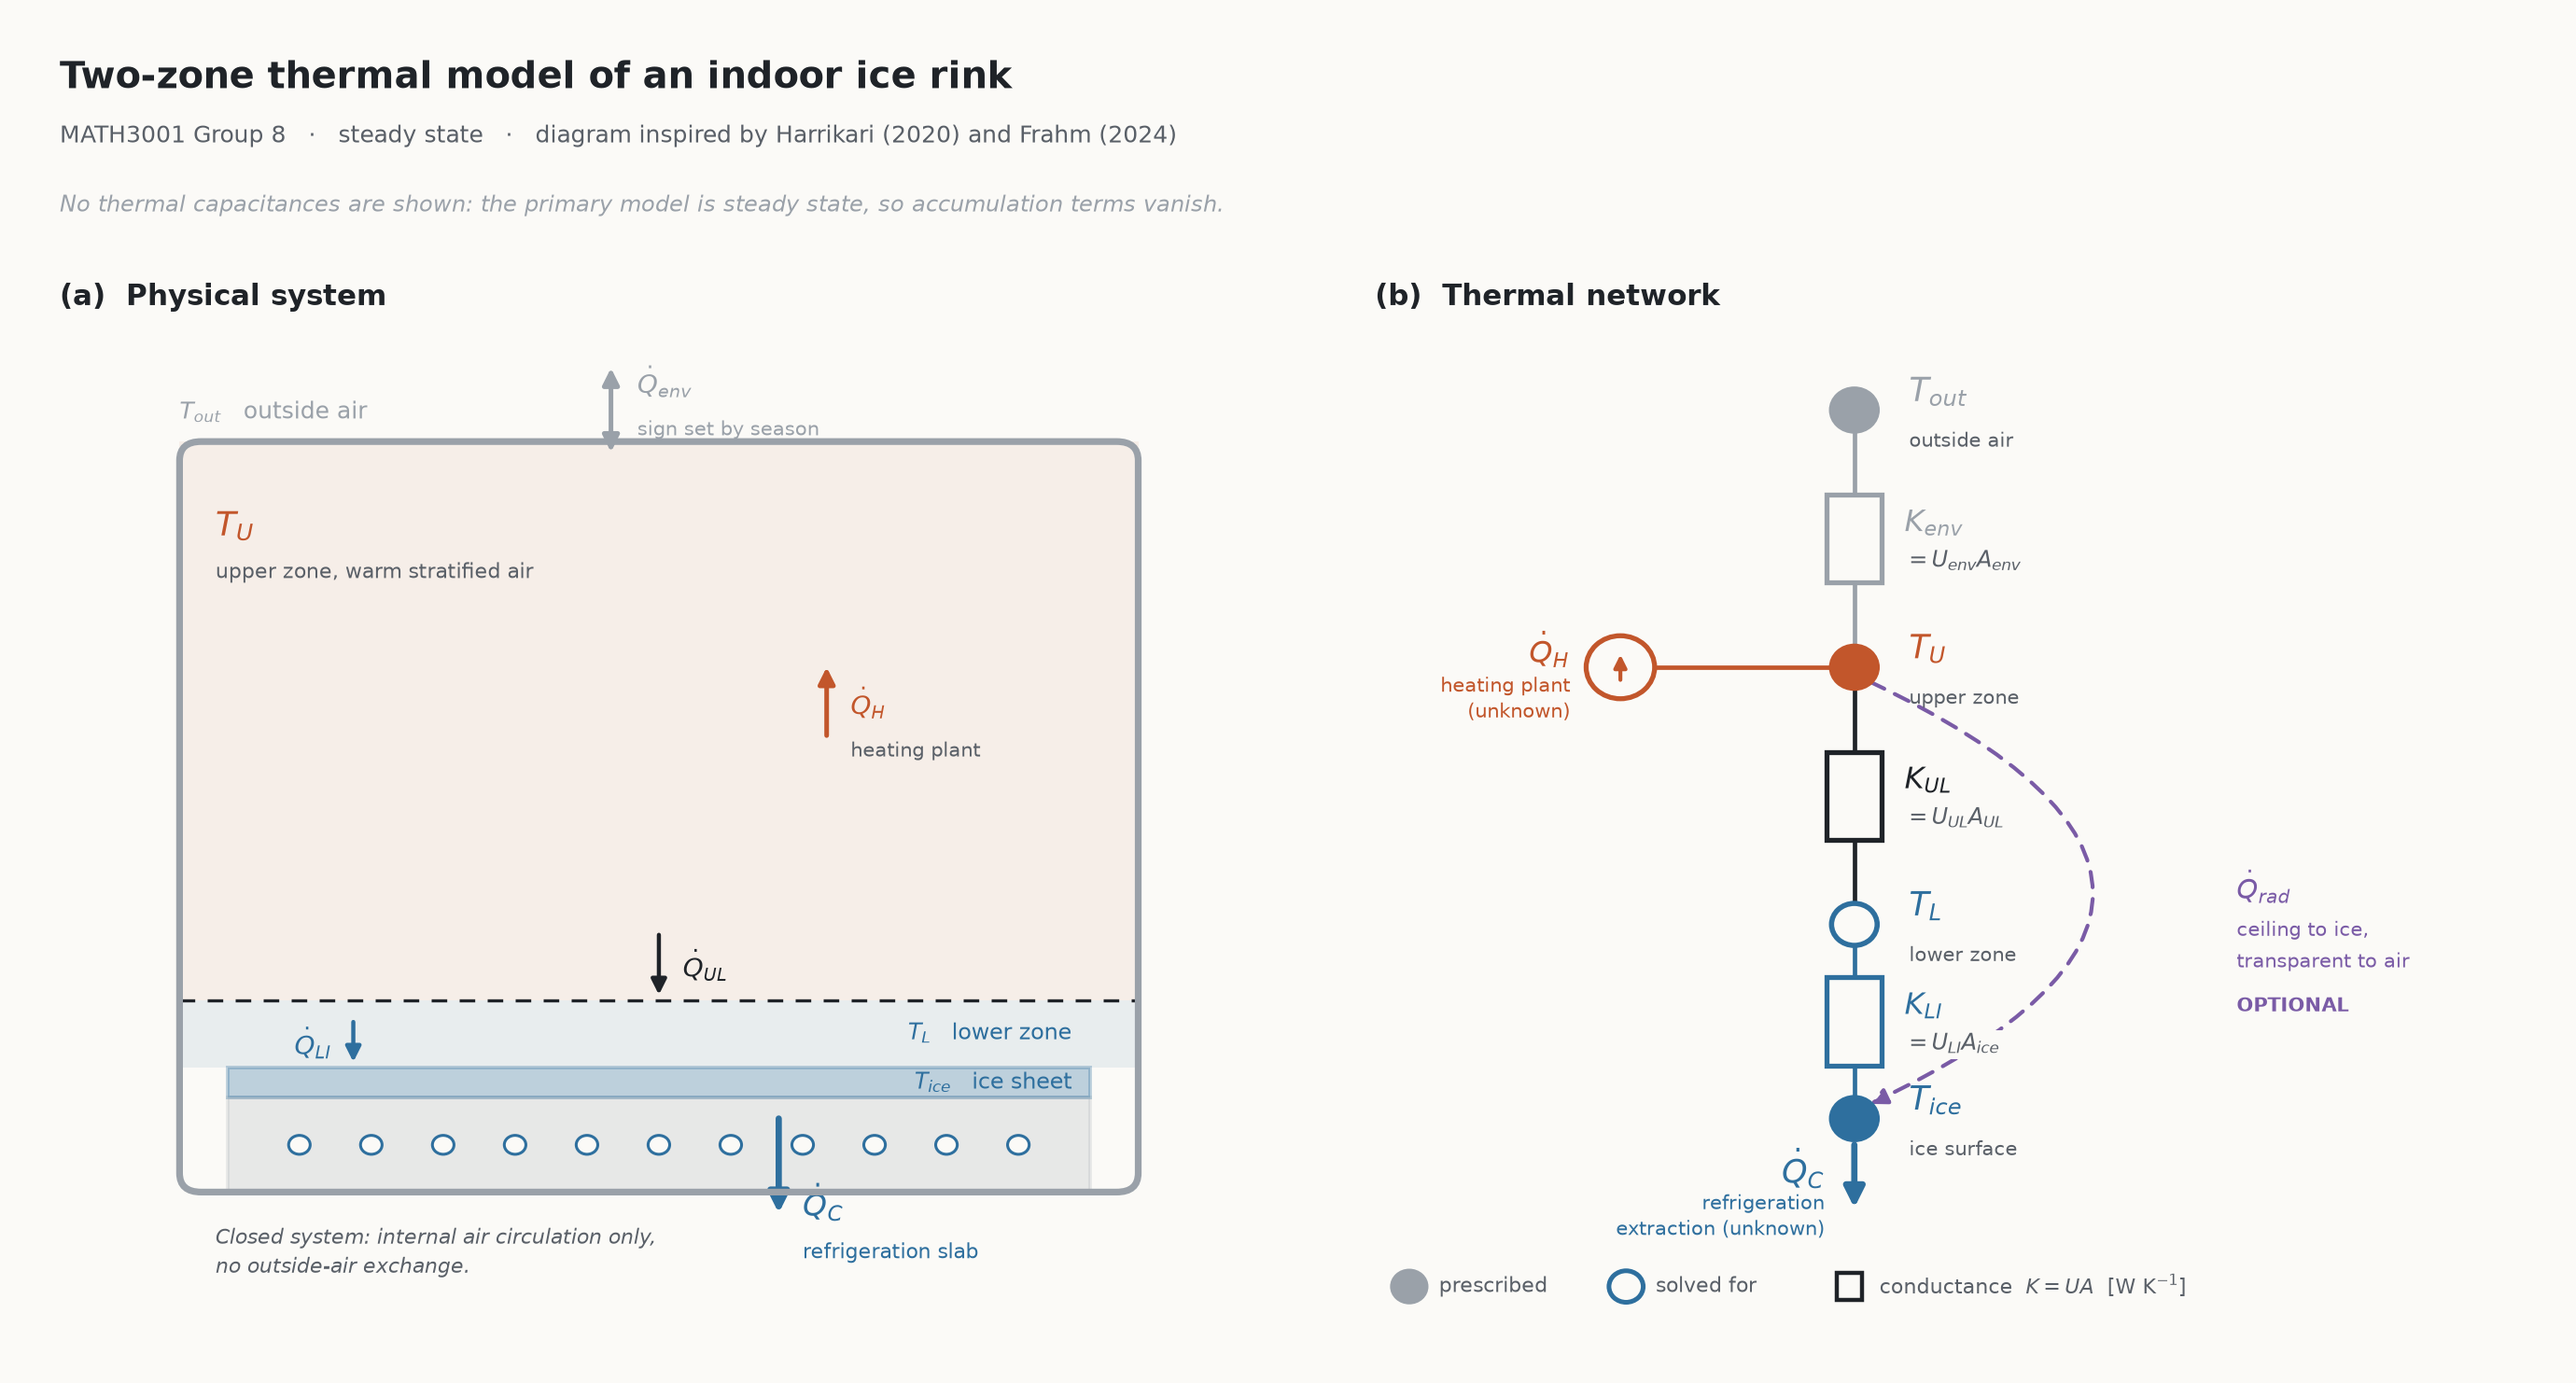
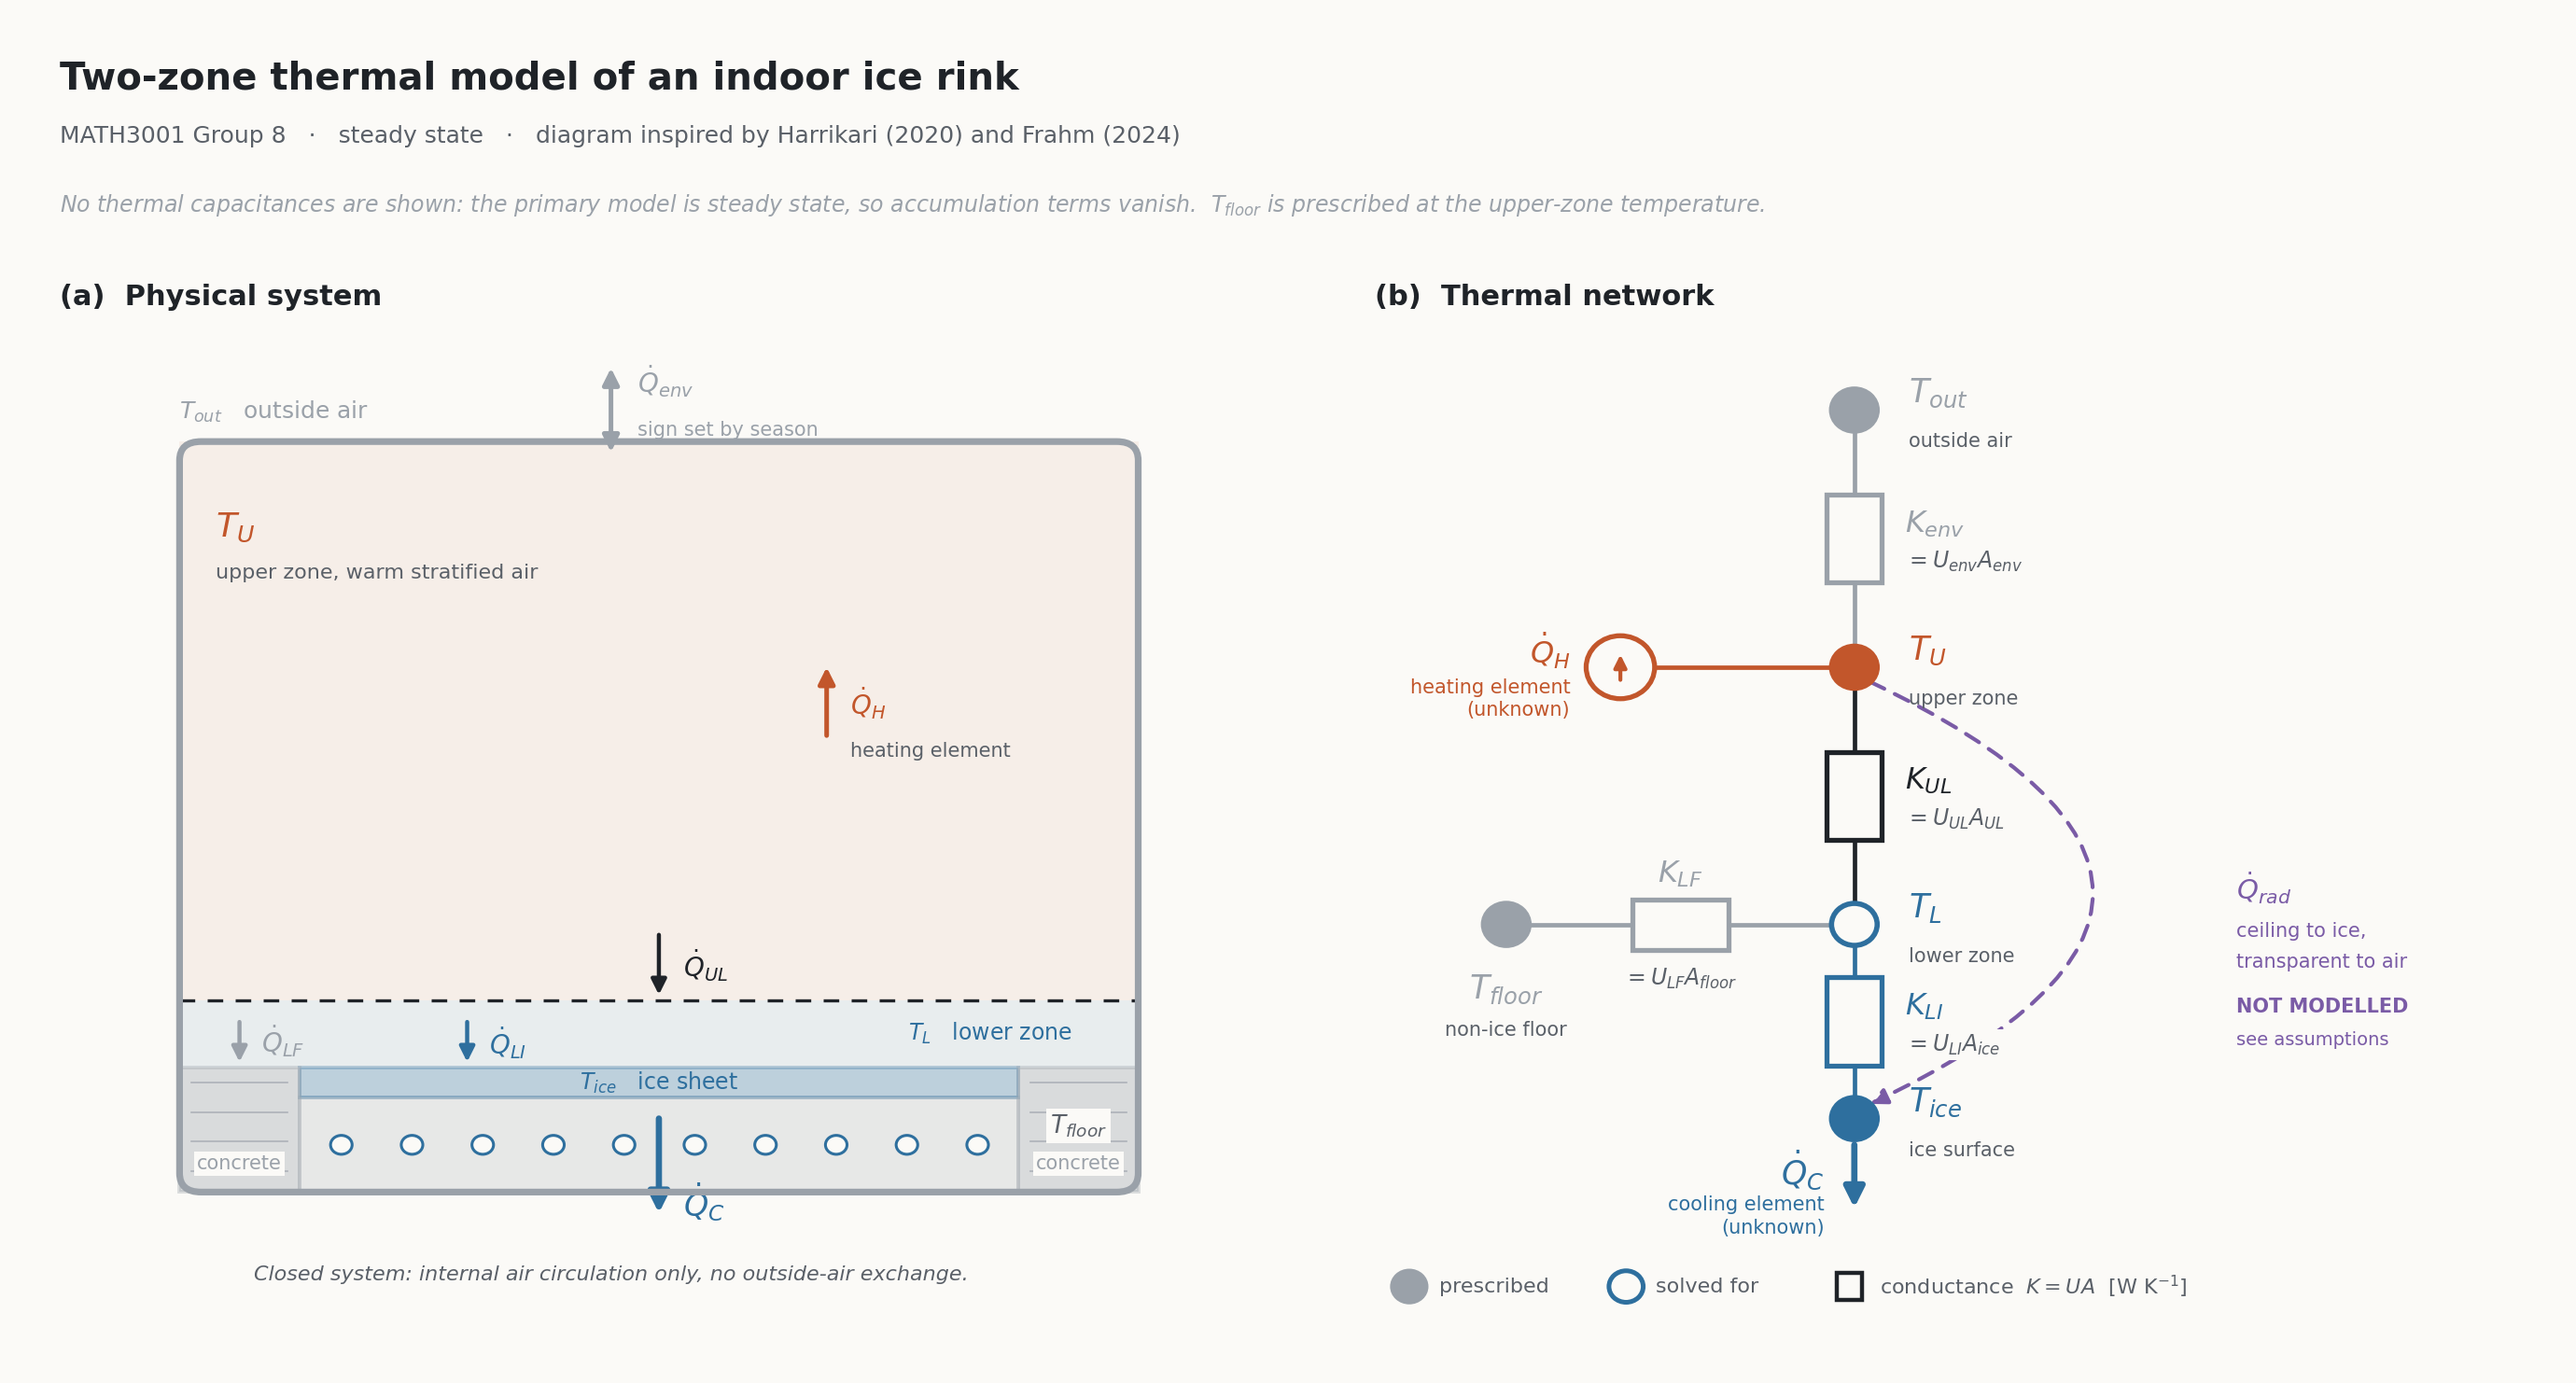
Add non-ice floor branch to thermal network diagram
The parameter table declares A_floor, U_LF and T_floor but neither panel of
the diagram showed that path. Both panels now carry it: the physical section
shows the unrefrigerated concrete either side of the rink, and the network
shows T_floor branching off the lower zone through K_LF = U_LF A_floor.

Ice narrowed to 75% of the interior so the 60 m of 80 m proportion is right.
Plant nodes renamed heating/cooling element, and the ceiling radiation path
is now marked NOT MODELLED rather than OPTIONAL, since excluding it is a
stated assumption rather than an open choice.

Renders headless now (Agg backend, no plt.show) so it no longer blocks.

Claude-Session: https://claude.ai/code/session_01AT3L4EYiEYtqpH4q6EToby

diff --git a/proposal/network.py b/proposal/network.py
@@ -1,12 +1,15 @@
 """Two-zone thermal model of an indoor ice rink.
 
-(a) physical system  - building section: upper/lower air zones, ice, cooled slab
-(b) thermal network  - conductances K = UA between the four temperature nodes
+(a) physical system  - building section: upper/lower air zones, ice, cooled slab,
+                       and the non-ice concrete floor surrounding the rink
+(b) thermal network  - conductances K = UA between the five temperature nodes
 
 MATH3001 Group 8. Steady state, so no capacitances appear in the network.
 """
 import os
 
+import matplotlib
+matplotlib.use('Agg')
 import matplotlib.pyplot as plt
 from matplotlib.patches import Circle, Rectangle, FancyBboxPatch
 
@@ -46,15 +49,35 @@ axL.text(8.45, 2.76, '$T_L$   lower zone', fontsize=8.5, color=COLD,
          ha='right', va='center')
 
 # ice sheet on the refrigerated slab
-axL.add_patch(Rectangle((1.4, 2.15), 7.2, 0.29, fc=COLD, alpha=0.30,
+axL.add_patch(Rectangle((2.0, 2.15), 6.0, 0.29, fc=COLD, alpha=0.30,
                         ec=COLD, lw=1.4, zorder=3))
-axL.text(8.45, 2.29, '$T_{ice}$   ice sheet', fontsize=8.5, color=COLD,
-         ha='right', va='center')
-axL.add_patch(Rectangle((1.4, 1.25), 7.2, 0.90, fc=MUTED, alpha=0.20,
+axL.text(5.0, 2.29, '$T_{ice}$   ice sheet', fontsize=8.5, color=COLD,
+         ha='center', va='center')
+axL.add_patch(Rectangle((2.0, 1.25), 6.0, 0.90, fc=MUTED, alpha=0.20,
                         ec=MUTED, lw=1.4, zorder=2))
-for i in range(11):                                    # brine pipes in the slab
-    axL.add_patch(Circle((2.0 + 0.6 * i, 1.70), 0.09, fc=SURF, ec=COLD,
+for i in range(10):                                    # brine pipes in the slab
+    axL.add_patch(Circle((2.35 + 0.59 * i, 1.70), 0.09, fc=SURF, ec=COLD,
                          lw=1.1, zorder=3))
+
+# non-ice concrete floor either side of the rink: unrefrigerated, sits under the
+# lower zone and covers A_building - A_ice
+for x0 in (1.0, 8.0):
+    axL.add_patch(Rectangle((x0, 1.25), 1.0, 1.19, fc=MUTED, alpha=0.34,
+                            ec=MUTED, lw=1.4, zorder=3))
+    for i in range(4):                                 # concrete hatching
+        axL.plot([x0 + 0.1, x0 + 0.9], [1.45 + 0.28 * i, 1.45 + 0.28 * i],
+                 color=MUTED, lw=0.6, alpha=0.7, zorder=4)
+axL.text(8.5, 1.88, '$T_{floor}$', fontsize=9.5, color=INK2, ha='center',
+         va='center', bbox=dict(fc=SURF, ec='none', pad=1.5), zorder=5)
+axL.text(8.5, 1.52, 'concrete', fontsize=7.5, color=MUTED, ha='center',
+         va='center', bbox=dict(fc=SURF, ec='none', pad=1.2), zorder=5)
+axL.text(1.5, 1.52, 'concrete', fontsize=7.5, color=MUTED, ha='center',
+         va='center', bbox=dict(fc=SURF, ec='none', pad=1.2), zorder=5)
+
+# lower zone gives heat to the non-ice floor as well as to the ice
+axL.annotate('', xy=(1.5, 2.44), xytext=(1.5, 2.92),
+             arrowprops=dict(arrowstyle='-|>', color=MUTED, lw=1.6, mutation_scale=12))
+axL.text(1.68, 2.58, '$\\dot{Q}_{LF}$', fontsize=10, color=MUTED, ha='left')
 
 # envelope loss to outside
 axL.annotate('', xy=(4.6, 9.15), xytext=(4.6, 8.25),
@@ -67,23 +90,23 @@ axL.annotate('', xy=(6.4, 6.30), xytext=(6.4, 5.55),
              arrowprops=dict(arrowstyle='-|>', color=HOT, lw=1.8, mutation_scale=13))
 axL.text(6.6, 5.80, '$\\dot{Q}_H$', fontsize=10, color=HOT,
          fontweight='bold')
-axL.text(6.6, 5.40, 'heating plant', fontsize=7.5, color=INK2)
+axL.text(6.6, 5.40, 'heating element', fontsize=7.5, color=INK2)
 
 axL.annotate('', xy=(5.0, 3.08), xytext=(5.0, 3.75),
              arrowprops=dict(arrowstyle='-|>', color=INK, lw=1.6, mutation_scale=12))
 axL.text(5.2, 3.30, '$\\dot{Q}_{UL}$', fontsize=10, color=INK)
 
-axL.annotate('', xy=(2.45, 2.44), xytext=(2.45, 2.92),
+axL.annotate('', xy=(3.40, 2.44), xytext=(3.40, 2.92),
              arrowprops=dict(arrowstyle='-|>', color=COLD, lw=1.6, mutation_scale=12))
-axL.text(2.27, 2.56, '$\\dot{Q}_{LI}$', fontsize=10, color=COLD, ha='right')
+axL.text(3.58, 2.56, '$\\dot{Q}_{LI}$', fontsize=10, color=COLD, ha='left')
 
-axL.annotate('', xy=(6.0, 1.00), xytext=(6.0, 2.0),
+axL.annotate('', xy=(5.00, 1.00), xytext=(5.00, 2.0),
              arrowprops=dict(arrowstyle='-|>', color=COLD, lw=2.4, mutation_scale=16))
-axL.text(6.2, 1.02, '$\\dot{Q}_C$', fontsize=12, color=COLD, fontweight='bold')
-axL.text(6.2, 0.62, 'refrigeration slab', fontsize=8, color=COLD)
+axL.text(5.20, 1.02, '$\\dot{Q}_C$', fontsize=12, color=COLD, fontweight='bold')
 
-axL.text(1.3, 0.95, 'Closed system: internal air circulation only,\nno outside-air exchange.',
-         fontsize=8, color=INK2, style='italic', linespacing=1.4, va='top')
+
+axL.text(4.6, 0.55, 'Closed system: internal air circulation only, no outside-air exchange.',
+         fontsize=8, color=INK2, style='italic', ha='center', va='top')
 
 # thermal network
 axR = fig.add_subplot(gs[0, 1]); axR.set_facecolor(SURF)
@@ -114,6 +137,17 @@ def resistor(y0, y1, label, expr, colour):
     axR.text(XN + 0.44, ym - 0.22, expr, fontsize=8.5, color=INK2, va='center',
              bbox=dict(fc=SURF, ec='none', pad=1.2), zorder=4)
 
+def hresistor(x0, x1, y, label, expr, colour):
+    xm = (x0 + x1) / 2
+    axR.plot([x0, xm - 0.42], [y, y], color=colour, lw=1.7, zorder=2)
+    axR.plot([xm + 0.42, x1], [y, y], color=colour, lw=1.7, zorder=2)
+    axR.add_patch(Rectangle((xm - 0.42, y - 0.24), 0.84, 0.48,
+                            fc=SURF, ec=colour, lw=1.9, zorder=3))
+    axR.text(xm, y + 0.48, label, fontsize=11.5, color=colour, ha='center',
+             va='center', fontweight='bold')
+    axR.text(xm, y - 0.52, expr, fontsize=8.5, color=INK2, ha='center',
+             va='center', bbox=dict(fc=SURF, ec='none', pad=1.2), zorder=4)
+
 def source(cx, cy, sym, note, colour):
     axR.add_patch(Circle((cx, cy), 0.30, fc=SURF, ec=colour, lw=1.9, zorder=4))
     axR.annotate('', xy=(cx, cy + 0.17), xytext=(cx, cy - 0.17),
@@ -133,9 +167,18 @@ resistor(YS['out'] - NR, YS['U'] + NR, '$K_{env}$', '$=U_{env}A_{env}$', MUTED)
 resistor(YS['U']  - NR, YS['L'] + NR, '$K_{UL}$',  '$=U_{UL}A_{UL}$',   INK)
 resistor(YS['L']  - NR, YS['ice'] + NR, '$K_{LI}$', '$=U_{LI}A_{ice}$', COLD)
 
+# non-ice floor branches sideways off the lower zone: prescribed, like T_out
+XF = 1.15
+axR.add_patch(Circle((XF, YS['L']), NR, fc=MUTED, ec=MUTED, lw=2.0, zorder=5))
+axR.text(XF, YS['L'] - 0.46, '$T_{floor}$', fontsize=12.5, color=MUTED,
+         ha='center', va='top')
+axR.text(XF, YS['L'] - 0.92, 'non-ice floor', fontsize=7.5, color=INK2,
+         ha='center', va='top')
+hresistor(XF + NR, XN - NR, YS['L'], '$K_{LF}$', '$=U_{LF}A_{floor}$', MUTED)
+
 # heat source into T_U: Q_H (unknown, solved for)
 XS, XJ = 2.15, 3.10
-source(XS, YS['U'], '$\\dot{Q}_H$', 'heating plant\n(unknown)', HOT)
+source(XS, YS['U'], '$\\dot{Q}_H$', 'heating element\n(unknown)', HOT)
 axR.plot([XS + 0.30, XN - NR], [YS['U'], YS['U']], color=HOT, lw=1.7, zorder=2)
 
 
@@ -143,7 +186,7 @@ axR.annotate('', xy=(XN, 1.05), xytext=(XN, YS['ice'] - NR),
              arrowprops=dict(arrowstyle='-|>', color=COLD, lw=2.4, mutation_scale=16))
 axR.text(XN - 0.26, 1.46, '$\\dot{Q}_C$', fontsize=12.5, color=COLD,
          fontweight='bold', ha='right', va='center')
-axR.text(XN - 0.26, 1.02, 'refrigeration\nextraction (unknown)', fontsize=7.5,
+axR.text(XN - 0.26, 1.02, 'cooling element\n(unknown)', fontsize=7.5,
          color=COLD, ha='right', va='center', linespacing=1.3)
 
 from matplotlib.patches import FancyArrowPatch
@@ -156,7 +199,9 @@ axR.text(7.55, 4.15, '$\\dot{Q}_{rad}$', fontsize=10.5, color=OPT, va='center',
          fontweight='bold')
 axR.text(7.55, 3.74, 'ceiling to ice,', fontsize=7.5, color=OPT, va='center')
 axR.text(7.55, 3.44, 'transparent to air', fontsize=7.5, color=OPT, va='center')
-axR.text(7.55, 3.02, 'OPTIONAL', fontsize=7.5, color=OPT, va='center', fontweight='bold')
+axR.text(7.55, 3.02, 'NOT MODELLED', fontsize=7.5, color=OPT, va='center',
+         fontweight='bold')
+axR.text(7.55, 2.70, 'see assumptions', fontsize=7, color=OPT, va='center')
 
 # legend, single row along the bottom
 axR.add_patch(Circle((0.30, 0.35), 0.15, fc=MUTED, ec=MUTED, lw=1.6))
@@ -175,7 +220,8 @@ fig.text(0.035, 0.895,
          fontsize=9, color=INK2, ha='left')
 fig.text(0.035, 0.845,
          'No thermal capacitances are shown: the primary model is steady state, so '
-         'accumulation terms vanish.',
+         'accumulation terms vanish.  $T_{floor}$ is prescribed at the upper-zone '
+         'temperature.',
          fontsize=8.5, color=MUTED, ha='left', style='italic')
 
 OUTDIR = os.path.join(os.path.expanduser('~'), 'Documents', 'School',
@@ -185,4 +231,3 @@ if not os.path.isdir(OUTDIR):
 out = os.path.join(OUTDIR, 'Thermal_Network.png')
 plt.savefig(out, dpi=200, facecolor=SURF, bbox_inches='tight', pad_inches=0.32)
 print('saved ->', out)
-plt.show()
